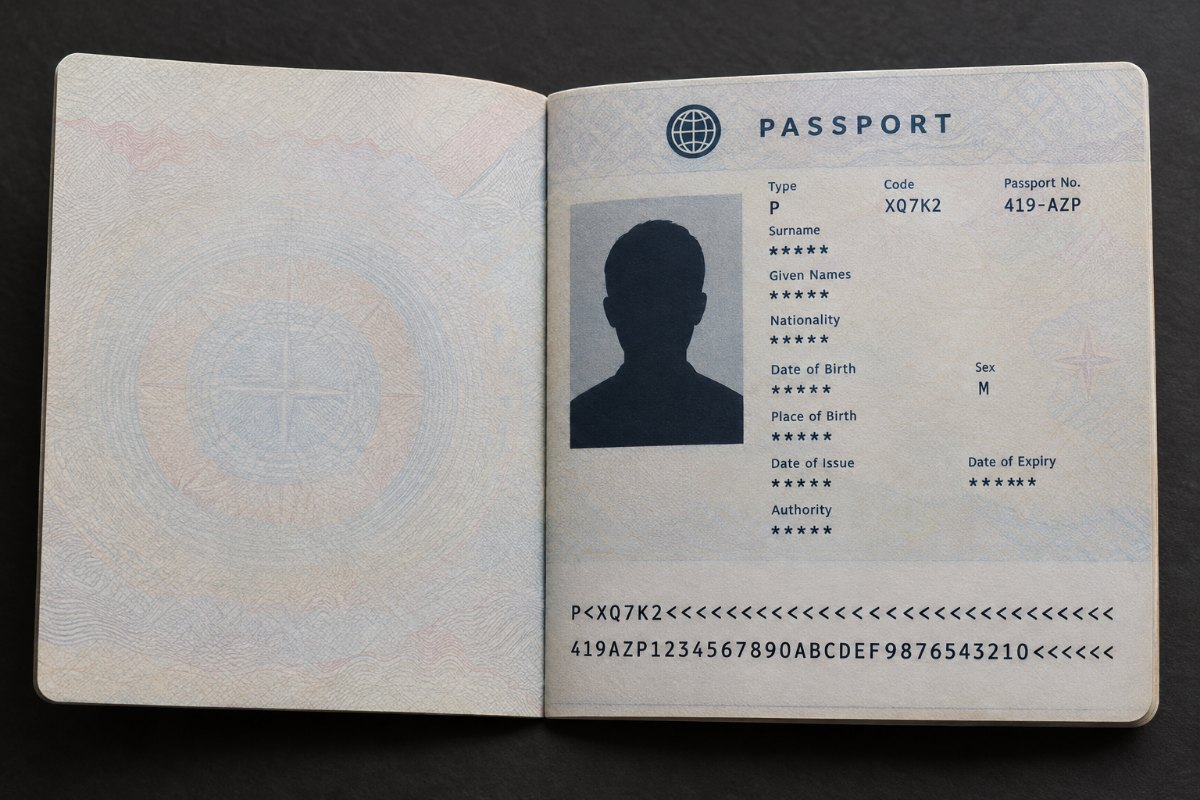
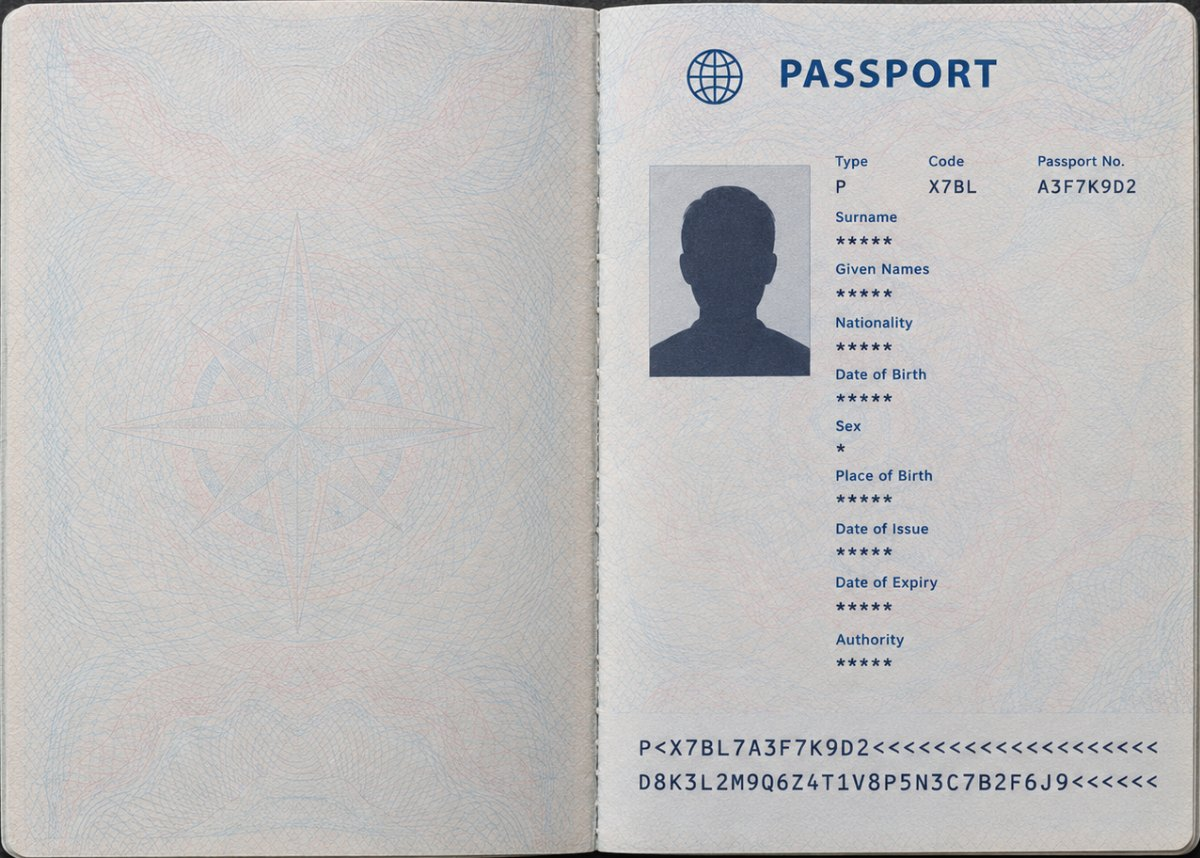
odyssey: v0.17.6 — 여권 실비율 v2 크롭(정규화 불필요·왜곡 0) · 손가락 추종 페이지 넘김(rotateY 실시간·스프링백·종이 옆면)

diff --git a/odyssey/index.html b/odyssey/index.html
@@ -602,6 +602,32 @@ body.dbg .cvcell.hot.ifeBtn:active,body.dbg .cvcell.hot.ifeTile:active{box-shado
 .ifeScreenOv{position:absolute;overflow:hidden;display:flex;align-items:center;justify-content:center;background:#000}
 .ifeScreenOv img{max-width:100%;max-height:100%;object-fit:contain}
 /* ★v0.14 #27 명판 각인 — 판 위에 새긴 글자처럼 */
+/* ★v0.17.6 [지시6B] 여권 페이지 넘김 — 펼침 사진 2장을 제본선에서 갈라 3겹으로 쌓고
+   가운데 한 장(.pbLeaf)만 제본선을 축으로 rotateY. 드래그 진행도 t 를 그대로 각도로 쓴다.
+   앞면 = p1 오른쪽 면 / 뒷면 = p2 왼쪽 면 (rotateY(180deg) 라 배경은 평범하게 깐다).
+   perspective 는 .pbWrap 에만 두고 preserve-3d 는 .pbLeaf 에만 — overflow:hidden 과 안 부딪힌다. */
+/* perspective-origin 을 왼쪽으로 옮긴 건 의도 — 정중앙이면 장이 딱 90° 일 때 투영폭이 0 이 돼
+   한 프레임 "사라졌다" 보인다. 시점을 살짝 옆으로 두면 세워진 순간에도 종이 옆면이 남는다. */
+.pbWrap{position:relative;flex:0 0 auto;border-radius:var(--r);overflow:hidden;background:var(--n1);
+  perspective:1150px;-webkit-perspective:1150px;perspective-origin:18% 50%;-webkit-perspective-origin:18% 50%}
+.pbHalf{position:absolute;top:0;height:100%;background-repeat:no-repeat}
+.pbGutter{position:absolute;top:0;height:100%;z-index:2;opacity:0;pointer-events:none;
+  background:linear-gradient(270deg,rgba(0,0,0,.5) 0%,rgba(0,0,0,.12) 22%,rgba(0,0,0,0) 55%)}
+.pbLeaf{position:absolute;top:0;height:100%;z-index:3;transform-origin:left center;
+  transform-style:preserve-3d;-webkit-transform-style:preserve-3d;will-change:transform;backface-visibility:visible}
+.pbFace{position:absolute;left:0;top:0;width:100%;height:100%;background-repeat:no-repeat;
+  backface-visibility:hidden;-webkit-backface-visibility:hidden}
+.pbBack{transform:rotateY(180deg)}
+.pbShade{position:absolute;inset:0;opacity:0;pointer-events:none}
+.pbFront .pbShade{background:linear-gradient(90deg,rgba(0,0,0,.55) 0%,rgba(0,0,0,.14) 34%,rgba(0,0,0,0) 72%)}
+.pbBack .pbShade{background:linear-gradient(90deg,rgba(0,0,0,.5) 0%,rgba(0,0,0,.1) 40%,rgba(0,0,0,0) 76%)}
+/* 장이 딱 세워지는 순간(t≈0.5) 보이는 **종이 옆면**.
+   chromium 은 perspective-origin 덕에 얇은 면이 남지만 webkit 은 투영폭이 0 이 돼 한 프레임 사라진다.
+   두 엔진 모두 같게 보이도록 제본선 자리에 종이색 얇은 띠를 같이 깔아 준다. */
+.pbEdge{position:absolute;top:2%;height:96%;width:5px;margin-left:-2px;z-index:2;opacity:0;pointer-events:none;border-radius:1px;
+  background:linear-gradient(90deg,#cfcabf 0%,#f4f1e9 45%,#d6d1c4 100%);box-shadow:0 0 7px rgba(0,0,0,.38)}
+.pbCell{position:absolute;z-index:4;border:0;background:transparent;padding:0}
+body.dbg.hints .pbCell{box-shadow:inset 0 0 0 2px rgba(255,255,255,.45);border-radius:6px}
 .cvcell.namePlate{pointer-events:none}
 .cvcell.namePlate.onDark .cv{color:#d9d9de !important;text-shadow:0 1px 2px rgba(0,0,0,.65) !important}
 .cvcell.namePlate .cv{background:transparent !important;box-shadow:none !important;
@@ -11033,7 +11059,7 @@ function findAlignmentPattern(matrix, alignmentPatternQuads, topRight, topLeft, 
 (function () {
   "use strict";
 
-  var BUILD = "ODY-S1-20260913-0839";
+  var BUILD = "ODY-S1-20260913-1003";
   var LSKEY = "odyssey.s1.v1";
 
   var qs = new URLSearchParams(location.search);
@@ -12359,9 +12385,16 @@ function findAlignmentPattern(matrix, alignmentPatternQuads, topRight, topLeft, 
   /* ★v0.17.4 [지시25] 여권 — 탭하면 신원 페이지, 스크롤(드래그)하면 한 장 넘어가고
      2페이지 오른쪽에 베이지 색상판이 놓여 있다. 판을 탭하면 획득하고 여권은 더 안 열린다.
      tileCell = clean.png(1536×1024) 실측 x947~1213 / y366~642 (=61.7/35.7/17.3/27.0) 에 탭 여유 */
+  /* ★v0.17.6 [지시6A] 실비율 v2 — gen/77·78 검수본을 **책자만** 같은 박스로 크롭(tools/make-passport-v2.mjs).
+     · 책자 bbox(테두리 flood fill 최대 연결요소) p1 1276×914(1.3961) / p2 1278×912(1.4013) — 차 0.16%
+       → 가로 정규화(스케일) 불필요. 공통 크롭 1276×912(1.3991) ≈ 실여권 펼침 176×125mm(1.4080), 오차 0.6%
+     · 출력 1200×858 (nw/nh)
+     · spine = 제본선 실측 위치 % — 페이지 넘김 회전축
+     · tileCell = 크롭 좌표계에서 다시 잰 베이지 판 bbox(중심 73.47% / 47.97%)에 탭 여유 */
   var PASSPORT = {
-    img1: "passport_p1.jpg", img2: "passport_p2.jpg", nw: 1200, nh: 800,
-    tileCell: { x: 59.5, y: 33.0, w: 21.5, h: 32.0 }
+    img1: "passport_p1.jpg", img2: "passport_p2.jpg", nw: 1200, nh: 858,
+    spine: 49.80,
+    tileCell: { x: 66.4, y: 38.0, w: 14.2, h: 20.0 }
   };
 
   /* ★v0.17.5 [지시2·3] 배경이 흰색으로 바뀌고(누끼) 아이콘은 2줄×3개로 커졌다.
@@ -16418,7 +16451,15 @@ function findAlignmentPattern(matrix, alignmentPatternQuads, topRight, topLeft, 
   /* ★v0.17.4 [지시25] 여권 = 두 페이지짜리 실사.
      ① 탭하면 신원 페이지 ② 스크롤(좌우 드래그)하면 책장처럼 한 장 넘어간다
      ③ 2페이지 오른쪽의 베이지 색상판을 탭하면 획득 ④ 획득 뒤에는 아예 열리지 않는다
-     ⑤ 1페이지에서 드래그 없이 탭만 3번이면 안내 1회(북쑥 지정 문구) */
+     ⑤ 1페이지에서 드래그 없이 탭만 3번이면 안내 1회(북쑥 지정 문구)
+
+     ★v0.17.6 [지시6B] 넘김이 "이미지 바꿔끼기"였던 걸 **손가락을 따라가는 실제 페이지 넘김**으로.
+       구조 — 펼침 사진 2장을 제본선(P.spine)에서 좌/우로 갈라 3겹으로 쌓는다.
+         · 바닥 왼쪽 = p1 왼쪽 면      · 바닥 오른쪽 = p2 오른쪽 면
+         · 넘어가는 장(leaf) = 앞면 p1 오른쪽 면 / 뒷면 p2 왼쪽 면 — 제본선을 축으로 rotateY
+       t(0~1) 만큼 rotateY(-180°·t). t=0 이면 보이는 게 p1 펼침, t=1 이면 p2 펼침 — 중간은 실제로 반쯤 넘어간 모습.
+       드래그 이동량 ÷ 페이지 폭 = t (실시간 추종). 손을 떼면 t≥0.5 또는 속도 임계면 완료, 아니면 스프링백.
+       transform 만 건드려서 60fps. 판 탭·탭3회 안내·획득 후 비활성은 그대로. */
   ZOOM.passport = function () {
     var P = DATA.PASSPORT;
     if (G.flag("tookBeige")) return;                 /* 다 꺼낸 뒤에는 탭해도 안 열린다 */
@@ -16429,69 +16470,131 @@ function findAlignmentPattern(matrix, alignmentPatternQuads, topRight, topLeft, 
     var host = el("div");
     host.setAttribute("data-t", "passportBook");
     host.style.cssText = "position:relative;width:100%;height:100%;display:flex;align-items:center;justify-content:center;overflow:hidden";
-    var page = 0, busy = false, taps = 0, hinted = false;
-    var slot = el("div");
-    slot.style.cssText = "position:relative;width:100%;height:100%;display:flex;align-items:center;justify-content:center";
-    host.appendChild(slot);
-    function draw(anim) {
-      var old = slot.firstChild;
-      var node;
-      if (page === 1) {
-        node = imgStage(DATA.IMG + P.img2, [
-          { x: P.tileCell.x, y: P.tileCell.y, w: P.tileCell.w, h: P.tileCell.h, t: "takeTileBeige", cls: "hot",
-            onTap: function () {
-              if (G.flag("tookBeige")) return;
-              G.setFlag("tookBeige");
-              prize("tileBeige", "");
-              closeZoom();                            /* 이제 여권은 열리지 않는다 */
-            } }
-        ], { nw: P.nw, nh: P.nh });
-      } else {
-        node = imgStage(DATA.IMG + P.img1, [], { nw: P.nw, nh: P.nh });
-      }
-      node.setAttribute("data-page", String(page + 1));
-      if (anim) {
-        node.style.opacity = "0";
-        node.style.transform = "translateX(" + (anim > 0 ? 26 : -26) + "px)";
-        node.style.transition = "opacity .26s ease, transform .26s ease";
-      }
-      slot.appendChild(node);
-      if (old) {
-        old.style.transition = "opacity .22s ease, transform .22s ease";
-        old.style.position = "absolute"; old.style.left = "0"; old.style.top = "0"; old.style.right = "0"; old.style.bottom = "0";
-        old.style.opacity = "0";
-        old.style.transform = "translateX(" + (anim > 0 ? -26 : 26) + "px)";
-        setTimeout(function () { if (old.parentNode) old.parentNode.removeChild(old); }, 280);
-      }
-      if (anim) setTimeout(function () { node.style.opacity = "1"; node.style.transform = "none"; }, 20);
+
+    var I1 = DATA.IMG + P.img1, I2 = DATA.IMG + P.img2;
+    var SP = P.spine;                                 /* 제본선 위치 % (실측) */
+    /* 반쪽 상자 안에 "사진의 그 반쪽"이 딱 차도록 배경을 키운다 */
+    var BGL = (100 / SP * 100).toFixed(3) + "% 100%";           /* 왼쪽 면용 */
+    var BGR = (100 / (100 - SP) * 100).toFixed(3) + "% 100%";   /* 오른쪽 면용 */
+
+    var wrap = el("div", "pbWrap");
+    host.appendChild(wrap);
+
+    var baseL = el("div", "pbHalf");
+    baseL.style.cssText = "left:0;width:" + SP + "%;background-image:url('" + I1 + "');background-size:" + BGL + ";background-position:0 0";
+    var baseR = el("div", "pbHalf");
+    baseR.style.cssText = "left:" + SP + "%;width:" + (100 - SP) + "%;background-image:url('" + I2 + "');background-size:" + BGR + ";background-position:100% 0";
+    wrap.appendChild(baseL); wrap.appendChild(baseR);
+
+    var gut = el("div", "pbGutter");                  /* 장이 들리면 왼쪽 면에 지는 그림자 */
+    gut.style.cssText = "left:0;width:" + SP + "%";
+    wrap.appendChild(gut);
+    var edge = el("div", "pbEdge");                   /* 세워진 순간 보이는 종이 옆면(엔진 차이 보정) */
+    edge.style.left = SP + "%";
+    wrap.appendChild(edge);
+
+    var leaf = el("div", "pbLeaf");
+    leaf.style.cssText = "left:" + SP + "%;width:" + (100 - SP) + "%";
+    var front = el("div", "pbFace pbFront");
+    front.style.backgroundImage = "url('" + I1 + "')";
+    front.style.backgroundSize = BGR; front.style.backgroundPosition = "100% 0";
+    /* 뒷면 = p2 의 **왼쪽** 면. rotateY(180deg) 로 뒤집혀 있어 배경은 평범하게 깔면 된다. */
+    var back = el("div", "pbFace pbBack");
+    back.style.backgroundImage = "url('" + I2 + "')";
+    back.style.backgroundSize = BGL; back.style.backgroundPosition = "0 0";
+    var shF = el("div", "pbShade"), shB = el("div", "pbShade");
+    front.appendChild(shF); back.appendChild(shB);
+    leaf.appendChild(front); leaf.appendChild(back);
+    wrap.appendChild(leaf);
+
+    /* 베이지 색상판 — p2 오른쪽 면에 있으니 바닥 오른쪽 좌표계 = 펼침 사진 % 그대로 */
+    var T = P.tileCell;
+    var cell = el("button", "pbCell");
+    cell.setAttribute("data-t", "takeTileBeige");
+    cell.style.cssText = "left:" + T.x + "%;top:" + T.y + "%;width:" + T.w + "%;height:" + T.h + "%;display:none";
+    G.tapper(cell, { tap: function () {
+      if (G.flag("tookBeige") || t < 0.995) return;
+      G.setFlag("tookBeige");
+      prize("tileBeige", "");
+      closeZoom();                                    /* 이제 여권은 열리지 않는다 */
+    } });
+    wrap.appendChild(cell);
+
+    var t = 0, pageW = 1, taps = 0, hinted = false, anim = null;
+    function paint() {
+      leaf.style.transform = "rotateY(" + (-180 * t).toFixed(3) + "deg)";
+      var s = Math.sin(Math.PI * Math.min(1, Math.max(0, t)));   /* 0 → 1 → 0 : 들렸을 때 가장 진하게 */
+      shF.style.opacity = (0.40 * s).toFixed(3);
+      shB.style.opacity = (0.28 * s).toFixed(3);
+      gut.style.opacity = (0.55 * s).toFixed(3);
+      edge.style.opacity = Math.max(0, 1 - Math.abs(t - 0.5) / 0.18).toFixed(3);
+      cell.style.display = t > 0.995 ? "block" : "none";
     }
-    function go(to, dir) {
-      if (busy || to === page || to < 0 || to > 1) return;
-      busy = true; page = to;
-      G.sfxTap();
-      draw(dir);
-      setTimeout(function () { busy = false; }, 300);
+    function setT(v) { t = Math.min(1, Math.max(0, v)); paint(); }
+    function glide(to, ms) {
+      if (anim) cancelAnimationFrame(anim);
+      var from = t, t0 = 0;
+      if (Math.abs(to - from) < 0.001) { setT(to); return; }
+      function step(ts) {
+        if (!t0) t0 = ts;
+        var k = Math.min(1, (ts - t0) / ms);
+        var e = 1 - Math.pow(1 - k, 3);                /* ease-out cubic */
+        setT(from + (to - from) * e);
+        if (k < 1) anim = requestAnimationFrame(step); else { anim = null; G.sfxTap(); }
+      }
+      anim = requestAnimationFrame(step);
     }
-    draw(0);
-    var sx0 = 0, moved = false;
+    function fit() {
+      var stage = host.parentNode;
+      if (!stage) return;
+      var r = stage.getBoundingClientRect();
+      if (!r.width || !r.height) return;
+      var ar = P.nh / P.nw;
+      var W = Math.min(r.width, r.height / ar), H = W * ar;
+      wrap.style.width = W + "px"; wrap.style.height = H + "px";
+      pageW = Math.max(1, W * (100 - SP) / 100);
+    }
+    setTimeout(fit, 20); setTimeout(fit, 180); setTimeout(fit, 600);
+    window.addEventListener("resize", fit);
+    paint();
+
+    var sx0 = 0, t0v = 0, moved = false, lastX = 0, lastT = 0, vel = 0;
     G.drag(host, {
-      start: function (q) { sx0 = q.x; moved = false; },
-      move: function (q) { if (Math.abs(q.x - sx0) > 16) moved = true; },
-      end: function (q) {
-        var dx = q.x - sx0;
-        if (dx < -30) { go(1, 1); return; }            /* 왼쪽으로 넘기면 다음 장 */
-        if (dx > 30) { go(0, -1); return; }            /* 오른쪽으로 넘기면 앞 장 */
-        if (moved) return;
-        if (page === 0) {
-          taps++;
-          if (taps >= 3 && !hinted) { hinted = true; G.toast("스크롤하여 페이지를 넘길 수 있을 것 같다.", 2600); }
+      start: function (q) {
+        if (anim) { cancelAnimationFrame(anim); anim = null; }
+        fit();
+        sx0 = q.x; t0v = t; moved = false; lastX = q.x; lastT = Date.now(); vel = 0;
+      },
+      move: function (q) {
+        if (Math.abs(q.x - sx0) > 10) moved = true;
+        var now = Date.now(), dt = Math.max(1, now - lastT);
+        vel = (q.x - lastX) / dt;                     /* px/ms — 왼쪽이면 음수 */
+        lastX = q.x; lastT = now;
+        setT(t0v - (q.x - sx0) / pageW);              /* 손가락 이동량만큼 실시간 추종 */
+      },
+      end: function () {
+        if (!moved) {                                 /* 드래그가 아니라 탭 */
+          if (t < 0.005) {
+            taps++;
+            if (taps >= 3 && !hinted) { hinted = true; G.toast("스크롤하여 페이지를 넘길 수 있을 것 같다.", 2600); }
+          }
+          return;
         }
+        var to;
+        if (vel < -0.45) to = 1;                      /* 빠르게 왼쪽으로 → 넘김 완료 */
+        else if (vel > 0.45) to = 0;                  /* 빠르게 오른쪽으로 → 되돌림 */
+        else to = t >= 0.5 ? 1 : 0;                   /* 아니면 절반 기준 */
+        glide(to, 260);
       }
     });
+
     window.__passportState = function () {
-      return { page: page + 1, taps: taps, hinted: hinted, took: !!G.flag("tookBeige"),
-               cell: !!host.querySelector('[data-t="takeTileBeige"]') };
+      return { page: t >= 0.5 ? 2 : 1, t: +t.toFixed(4), turning: !!anim, taps: taps, hinted: hinted,
+               took: !!G.flag("tookBeige"), cell: cell.style.display !== "none",
+               ang: +(-180 * t).toFixed(2), spine: SP };
     };
+    /* 검증용 — 진행도를 직접 세팅(캡처·회귀 검사) */
+    window.__pbSetT = function (v) { if (anim) { cancelAnimationFrame(anim); anim = null; } setT(v); };
     openZoom({ id: "passport", title: "여권", node: host, cap: "여권." });
   };
   /* ★v0.17.4 [지시11] 탑승권 = 실사 사진. 사진 속 카드를 크롭해 팝업에 꽉 차게 보여 주고,

diff --git a/odyssey/sw.js b/odyssey/sw.js
@@ -1,5 +1,5 @@
 /* 비행기에서 내리고 싶다. — 오프라인 서비스워커 (자동 생성) */
-const CACHE = "odyssey-ODY-S1-20260913-0839";
+const CACHE = "odyssey-ODY-S1-20260913-1003";
 const PRECACHE = [
  "./",
  "./index.html",
